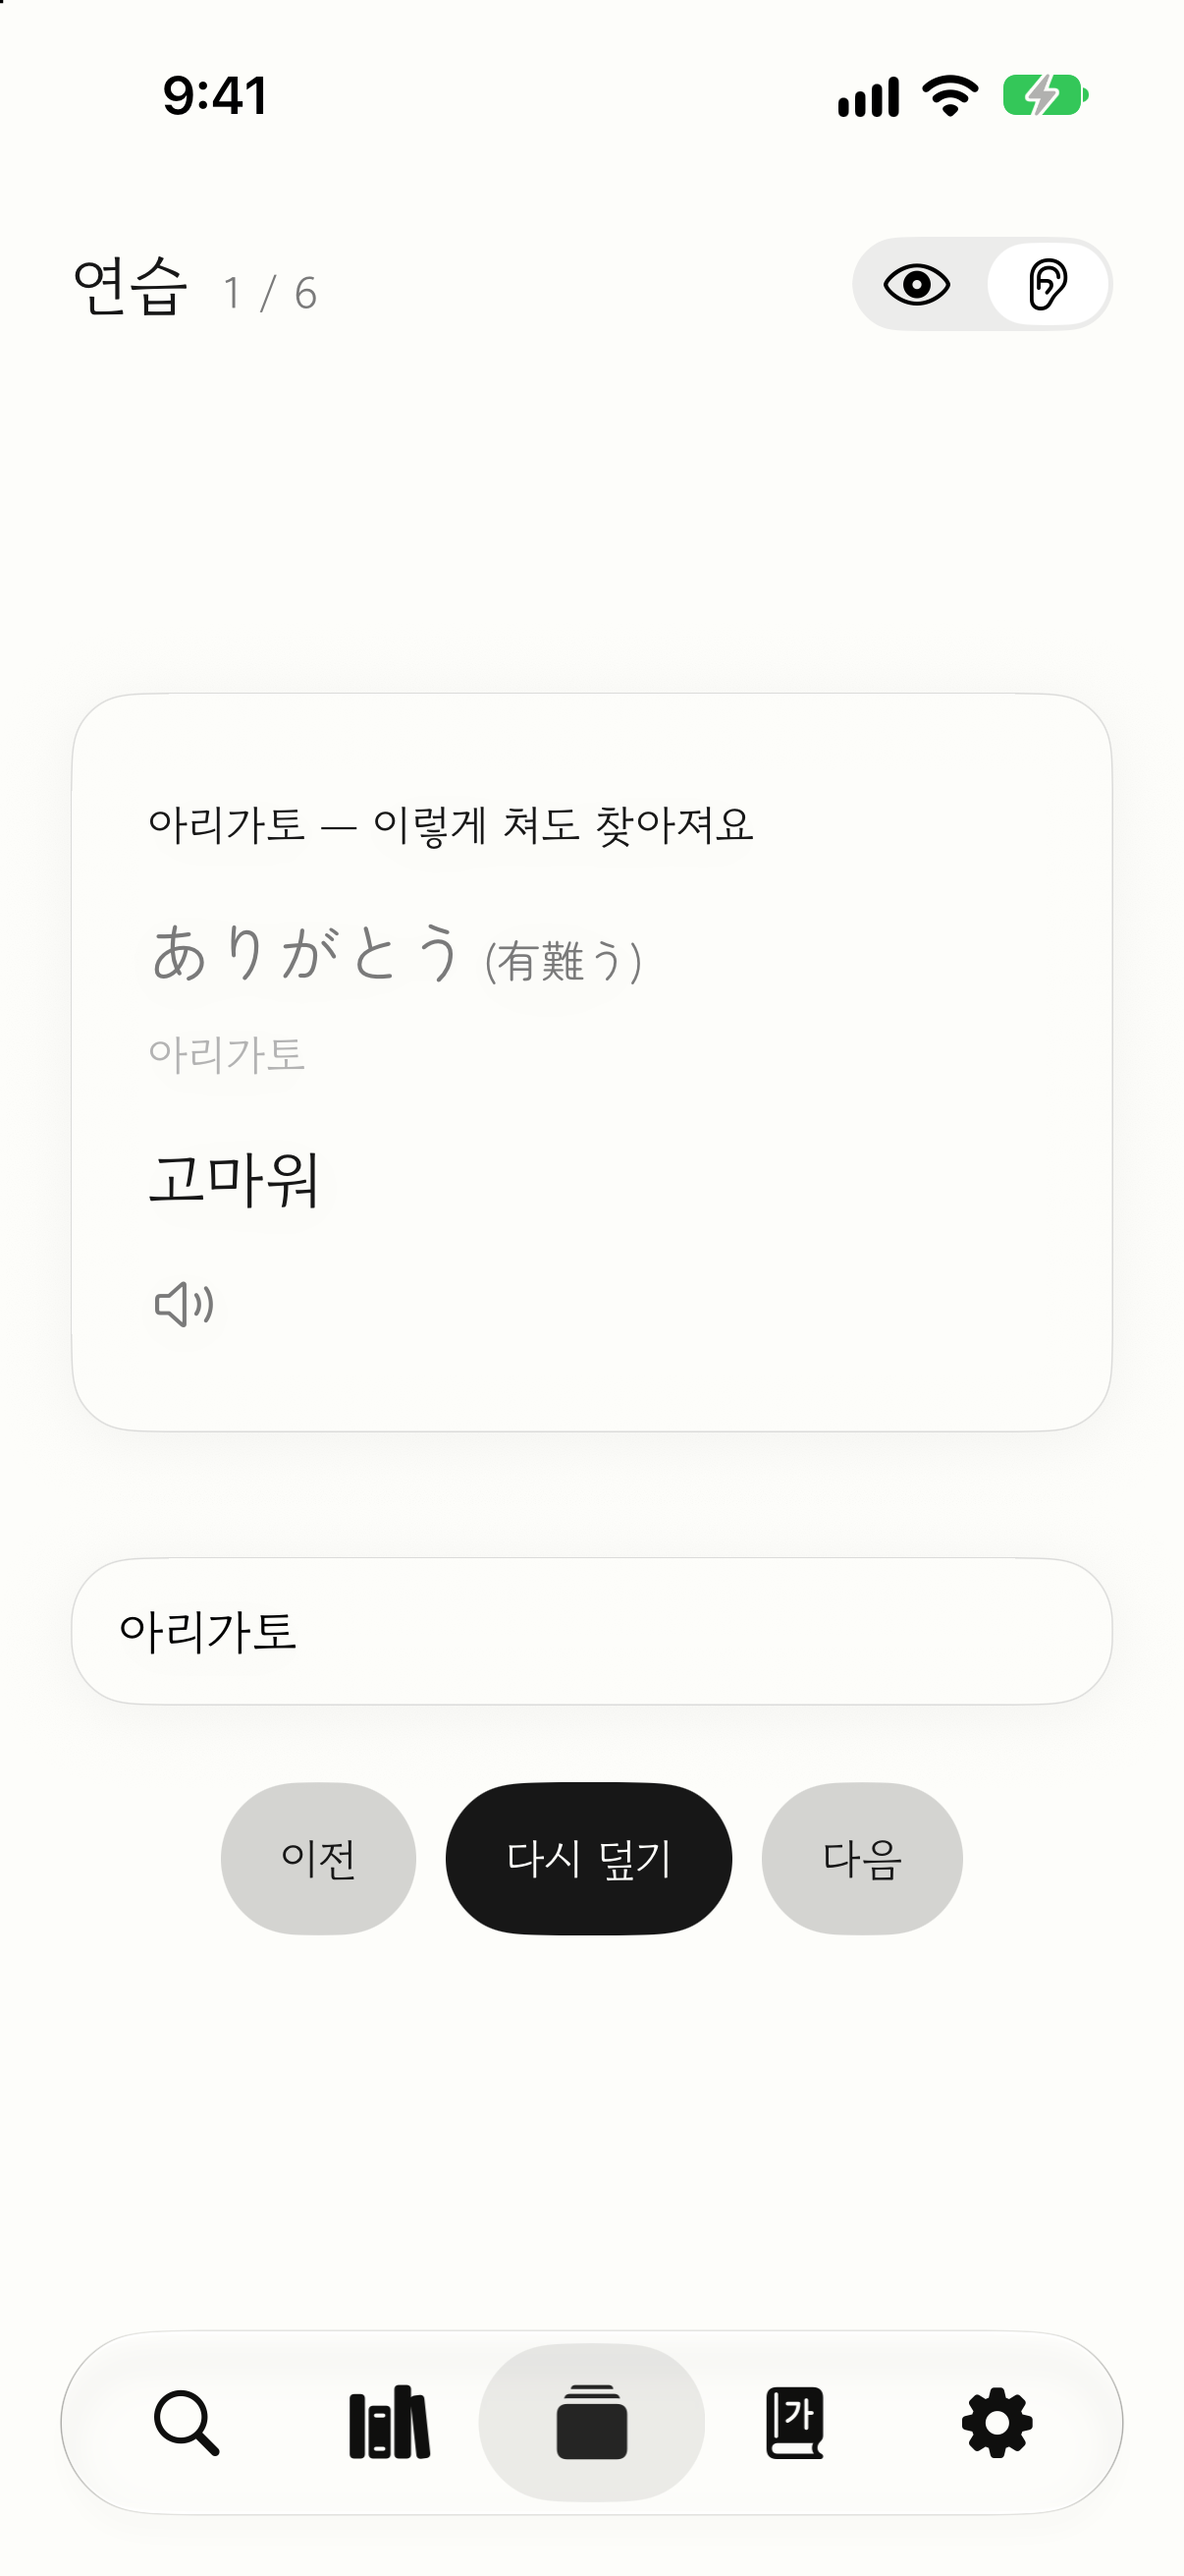
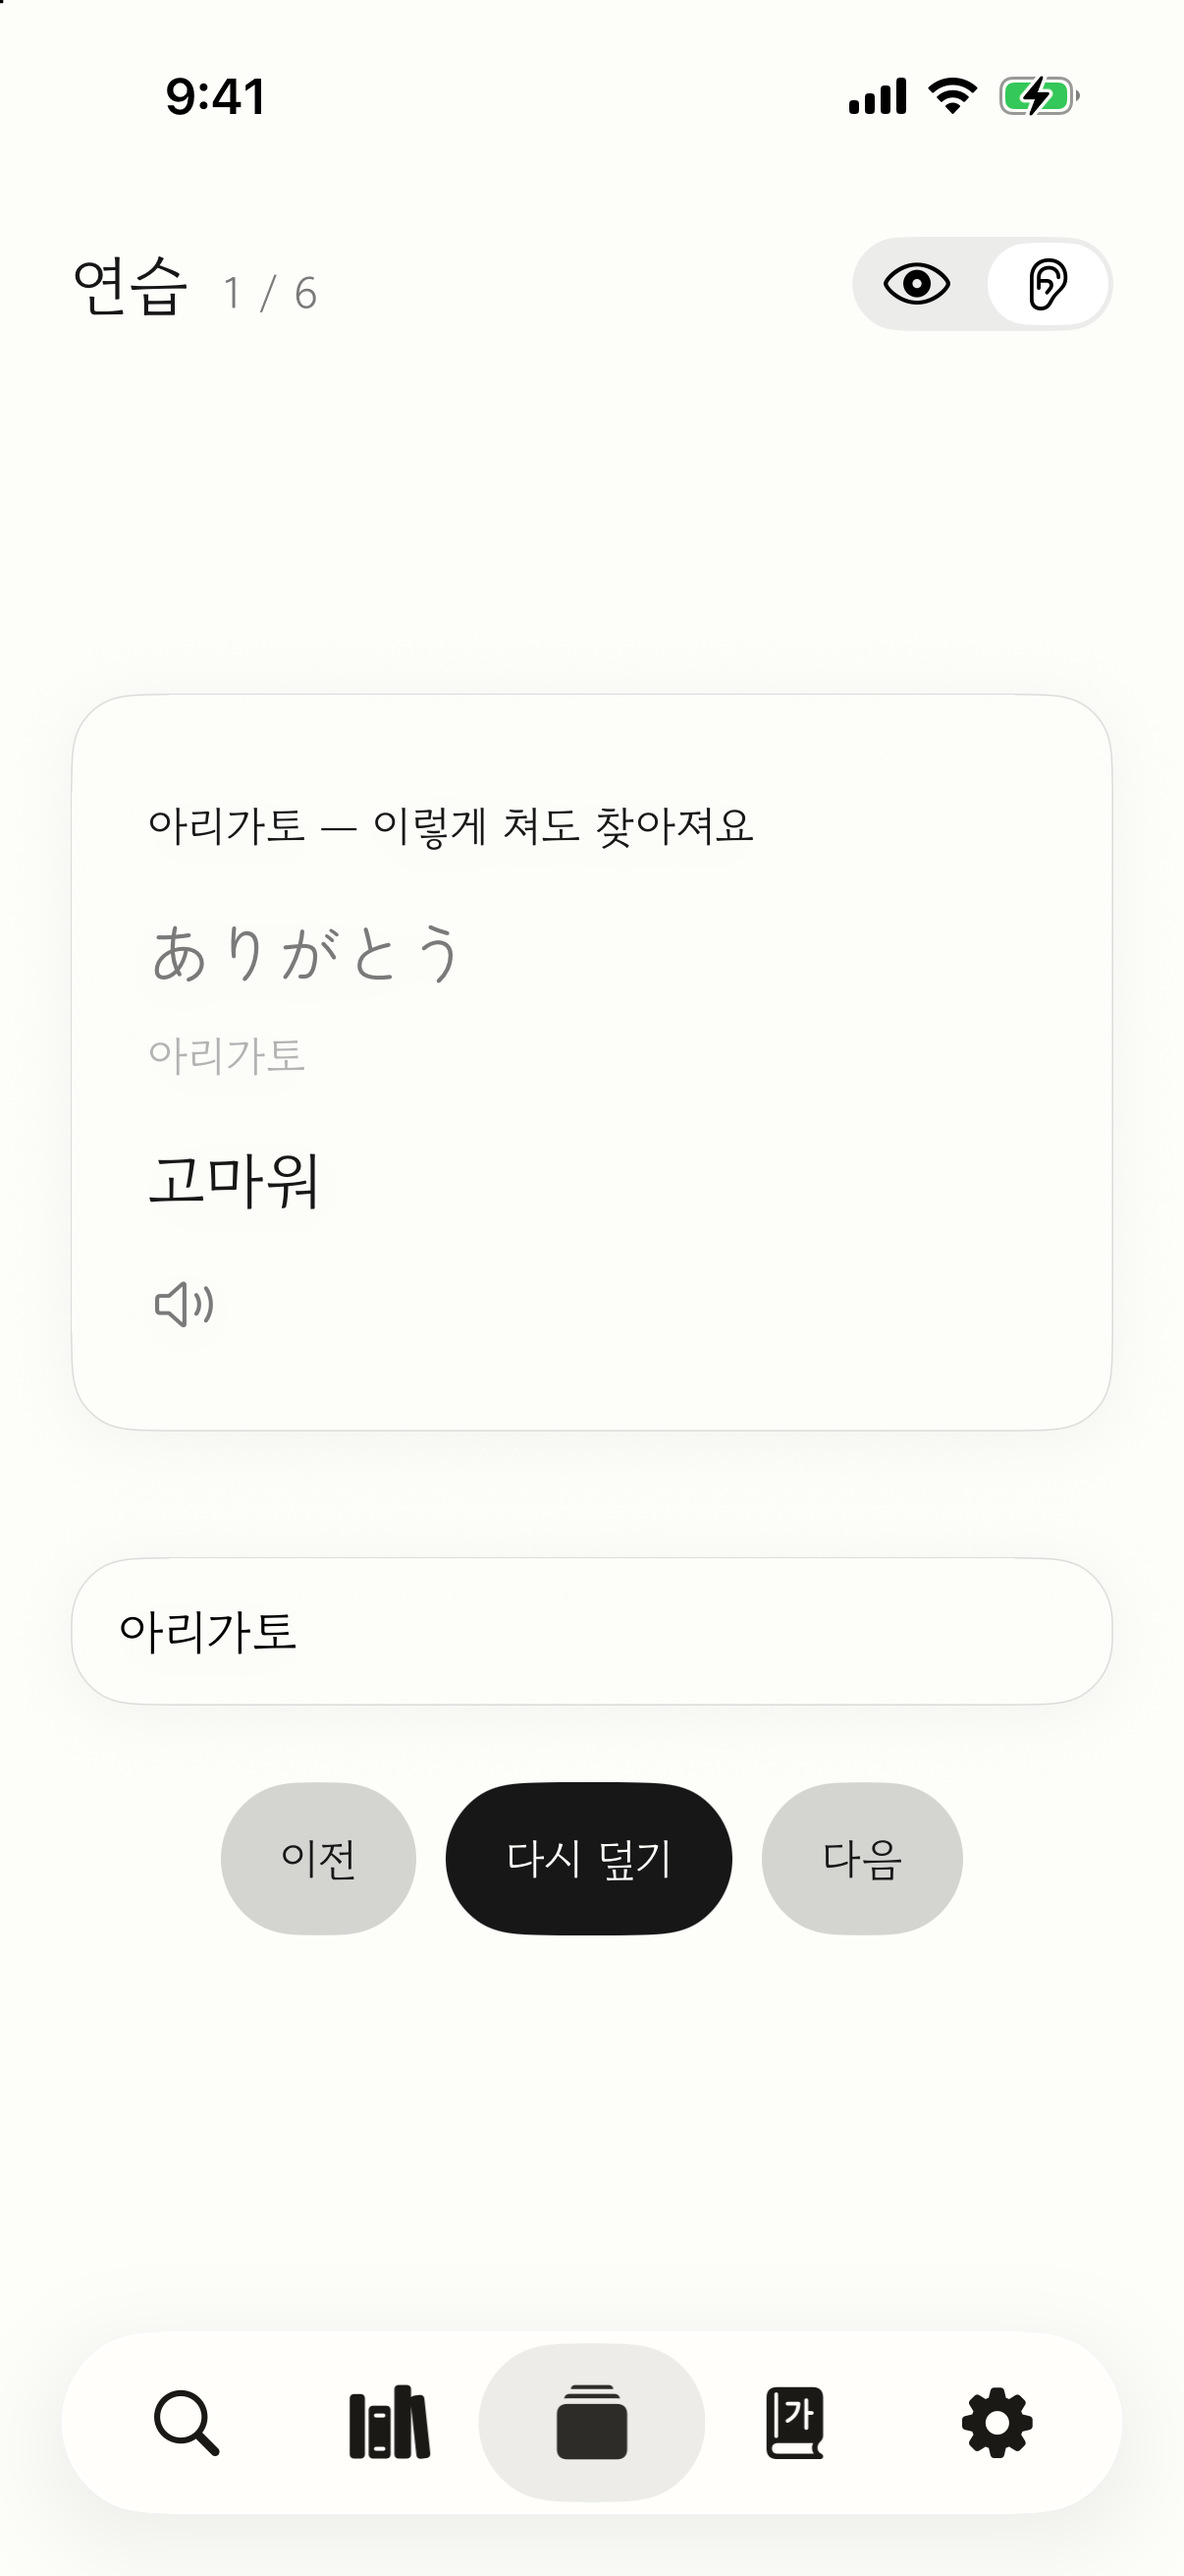
docs: 스크린샷과 도움말을 한자 없는 1.3 화면으로 바꾼다
1.3 에서 화면의 한자 괄호를 뺐는데 README 와 스토어에 걸 그림, 도움말의 예시는 아직 「ありがとう (有難う)」·「頭が痛い」처럼 한자를 보여 주고 있었다. 앱에 없는 것을 그림과 글이 약속하면 안 되므로 지금 코드로 다시 찍고 예시를 가나로 고친다.

- docs/screenshots/*.png: 한자가 보이던 찾기 · 문장 · 책장 · 받아쓰기 네 장을 1.2 와 같은 iPhone 17 시뮬레이터(1206×2622) · 9:41 상단 막대로 다시 찍는다. 연습 · 글자는 한자가 없어 그대로 둔다
- docs/screenshots/*.gif: README 의 찾기 · 책장 · 연습 그림이 한자 괄호와 옛 탭 그림(A)을 보여 주고 있어 같은 시뮬레이터에서 장면을 다시 찍어 이었다. 폭 320px · 128색 · 반복과 장마다 머무는 시간은 옛 그림과 같다
- docs/support.md: 예시를 가나로 바꾸고, 설정에 없는 「가나 · 한자 · 한글 고르기」 줄을 뜻 번호 설명으로 바꾼다

책장 그림은 「자주 듣는 말」 묶음에 여섯 낱말을 담은 상태로 찍었다. 시뮬레이터의 원래 책장은 찍기 전에 따로 두었다가 찍은 뒤 되돌렸다. 새 그림은 모두 프레임을 풀어 한자가 없는 것과 글자가 읽히는 것을 눈으로 확인했다.

대상 판: 1.3
Refs #40

diff --git a/docs/support.md b/docs/support.md
@@ -7,14 +7,14 @@
 **들린 대로 칩니다.** 띄어 쓰지 않아도 되고, 정확히 옮겨 적지 않아도 됩니다.
 
 ```
-아타마가이타이  →  頭が痛い
-다이죠부데스카  →  大丈夫ですか
-이타이야메로    →  痛いやめろ
+아타마가이타이  →  あたまがいたい
+다이죠부데스카  →  だいじょうぶ ですか
+이타이야메로    →  いたい やめろ
 ```
 
 - 어디서 끊을지는 사전이 정합니다. 조각을 누르면 그 낱말 카드로 갑니다.
 - `~했다` 같은 활용형은 사전형으로 되돌려 찾고, 무엇을 되돌렸는지도 알려 줍니다.
-- 가나 · 한자 · 한글 중 어디까지 볼지는 설정에서 고릅니다.
+- 뜻이 여럿인 말은 1. 2. 로 번호를 매겨 보여 줍니다. 「다른 뜻」을 누르면 펼쳐집니다.
 
 ## 자주 묻는 것
 
